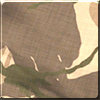
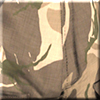
1.01.0126.220 : [CHANGE] Change Textures for FSF Unit camo Preview (FSF Version)

diff --git a/FSF Launcher ARMA3/Properties/Resources.Designer.cs b/FSF Launcher ARMA3/Properties/Resources.Designer.cs
@@ -123,16 +123,6 @@ namespace FSFLauncherA3.Properties {
         /// <summary>
         ///   Recherche une ressource localisée de type System.Drawing.Bitmap.
         /// </summary>
-        internal static System.Drawing.Bitmap CE {
-            get {
-                object obj = ResourceManager.GetObject("CE", resourceCulture);
-                return ((System.Drawing.Bitmap)(obj));
-            }
-        }
-        
-        /// <summary>
-        ///   Recherche une ressource localisée de type System.Drawing.Bitmap.
-        /// </summary>
         internal static System.Drawing.Bitmap CE_desert {
             get {
                 object obj = ResourceManager.GetObject("CE_desert", resourceCulture);
@@ -146,6 +136,16 @@ namespace FSFLauncherA3.Properties {
         internal static System.Drawing.Bitmap CE_mixte {
             get {
                 object obj = ResourceManager.GetObject("CE_mixte", resourceCulture);
+                return ((System.Drawing.Bitmap)(obj));
+            }
+        }
+        
+        /// <summary>
+        ///   Recherche une ressource localisée de type System.Drawing.Bitmap.
+        /// </summary>
+        internal static System.Drawing.Bitmap CE_Standard {
+            get {
+                object obj = ResourceManager.GetObject("CE_Standard", resourceCulture);
                 return ((System.Drawing.Bitmap)(obj));
             }
         }

diff --git a/FSF Launcher ARMA3/Form/FenetrePrincipale.cs b/FSF Launcher ARMA3/Form/FenetrePrincipale.cs
@@ -1233,7 +1233,7 @@ namespace FSFLauncherA3
                     pictureBox1.Image = FSFLauncherA3.Properties.Resources.CE_mixte;
                     break;
                 case "CE Standard":
-                    pictureBox1.Image = FSFLauncherA3.Properties.Resources.CE;
+                    pictureBox1.Image = FSFLauncherA3.Properties.Resources.CE_Standard;
                     break;
                 case "CE Urban":
                     pictureBox1.Image = FSFLauncherA3.Properties.Resources.CE_urbain;
